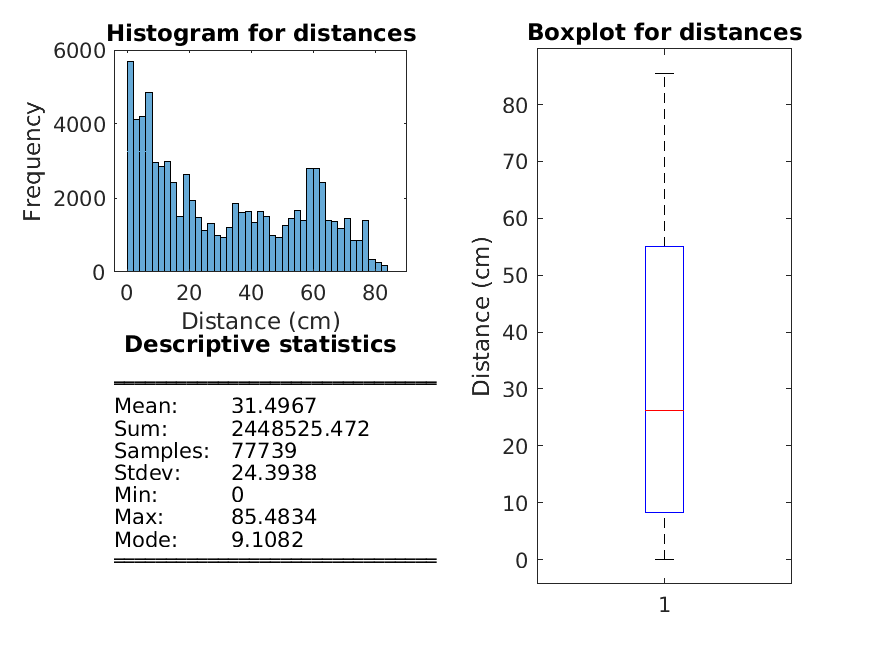
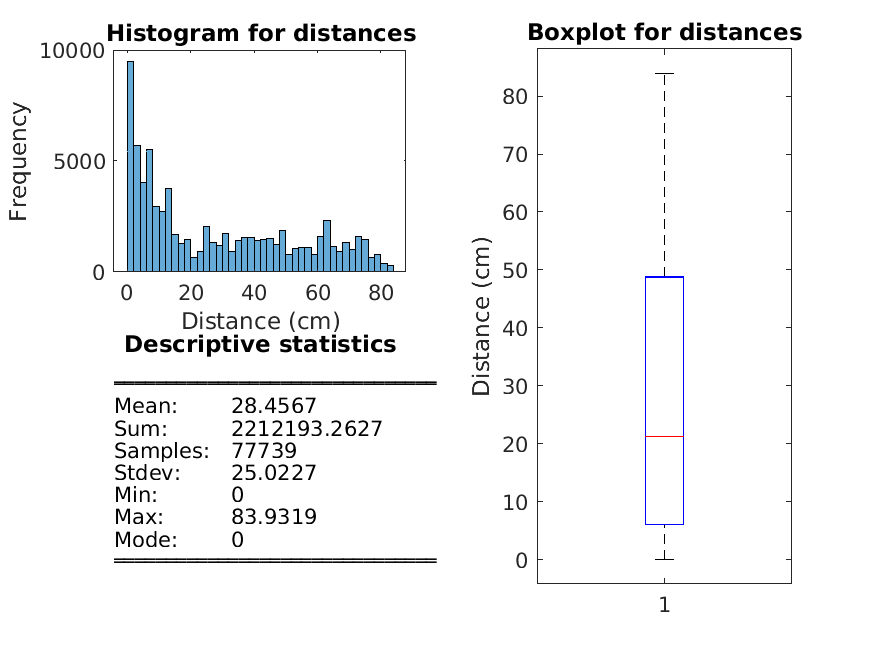
Changes on GT proportion

diff --git a/knnSearch.m b/knnSearch.m
@@ -27,10 +27,10 @@
 %     2. Make sure both images have the same
 %        alignment.
 %     3. Modify pixToCentimeter accordingly:
-%        3.1. For "arena_cierre_lazo_simplificada.world"
-%             1 meter ~= 527 pixels.
+%        3.1. For "arena_cierre_lazo_asimetrica.world"
+%             1 meter ~= 529 pixels (+/- 5 pix ~ 9.5 mm).
 %        3.2. For "arena_casa_simplificada.world"
-%             1 meter ~= 701 pixels.
+%             1 meter ~= 709 pixels  (+/- 6.5 pix ~ 9.5 mm).
 %----------------------------------------------%
 
 %% Globals
@@ -43,7 +43,7 @@ sumOfDistances = 0;
 
 rowsSampler     = 1000;
 colsSampler     = 1000;
-pixToCentimeter = 5.27;
+pixToCentimeter = 5.29;
 
 % Make the ground truth suitable
 GT_Matrix = imread('Ground_Truth.png');
